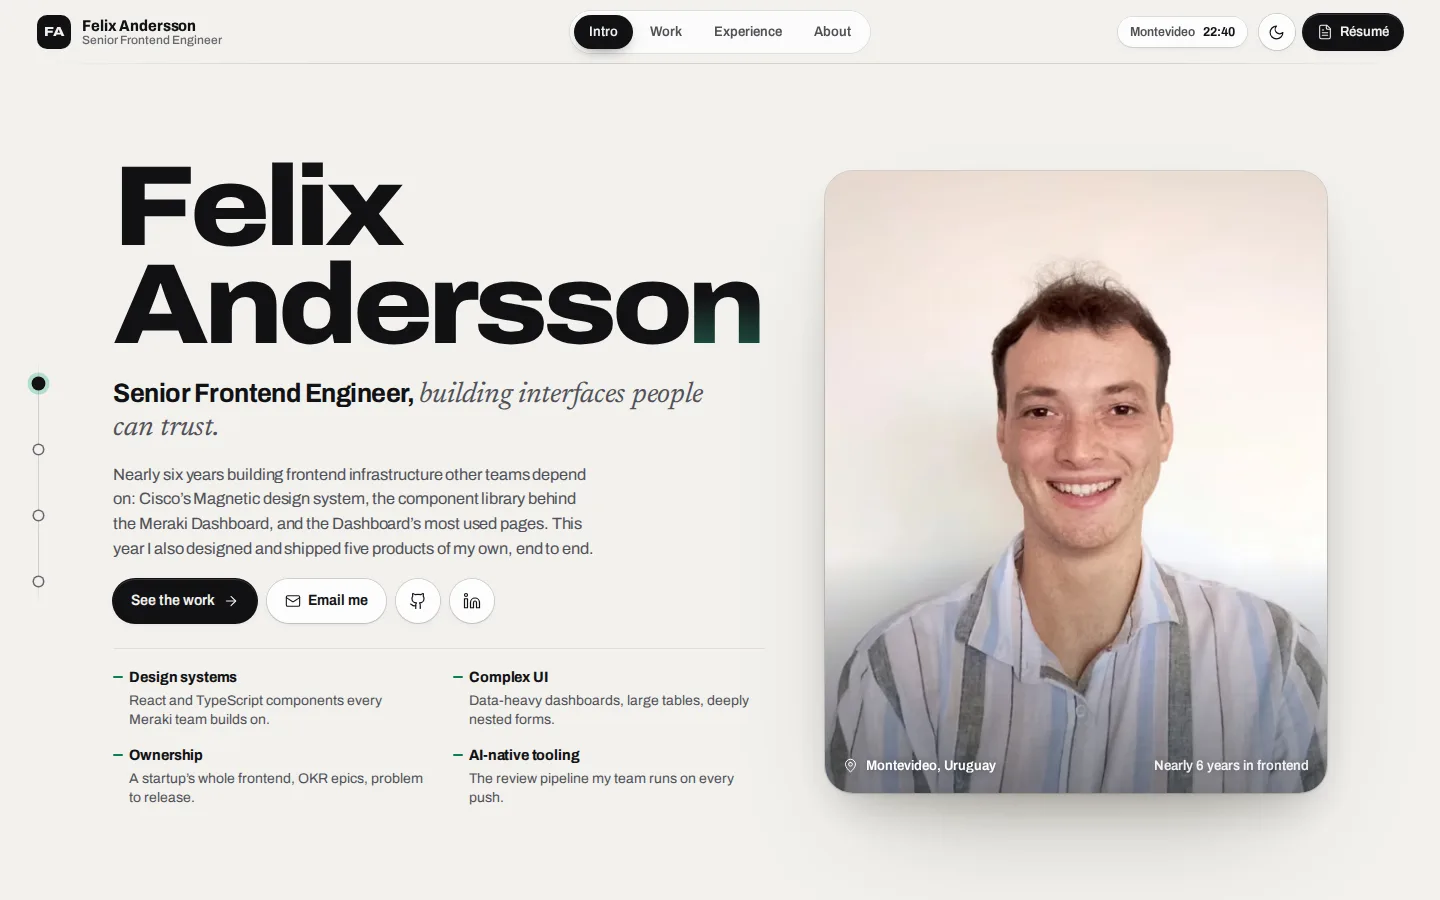
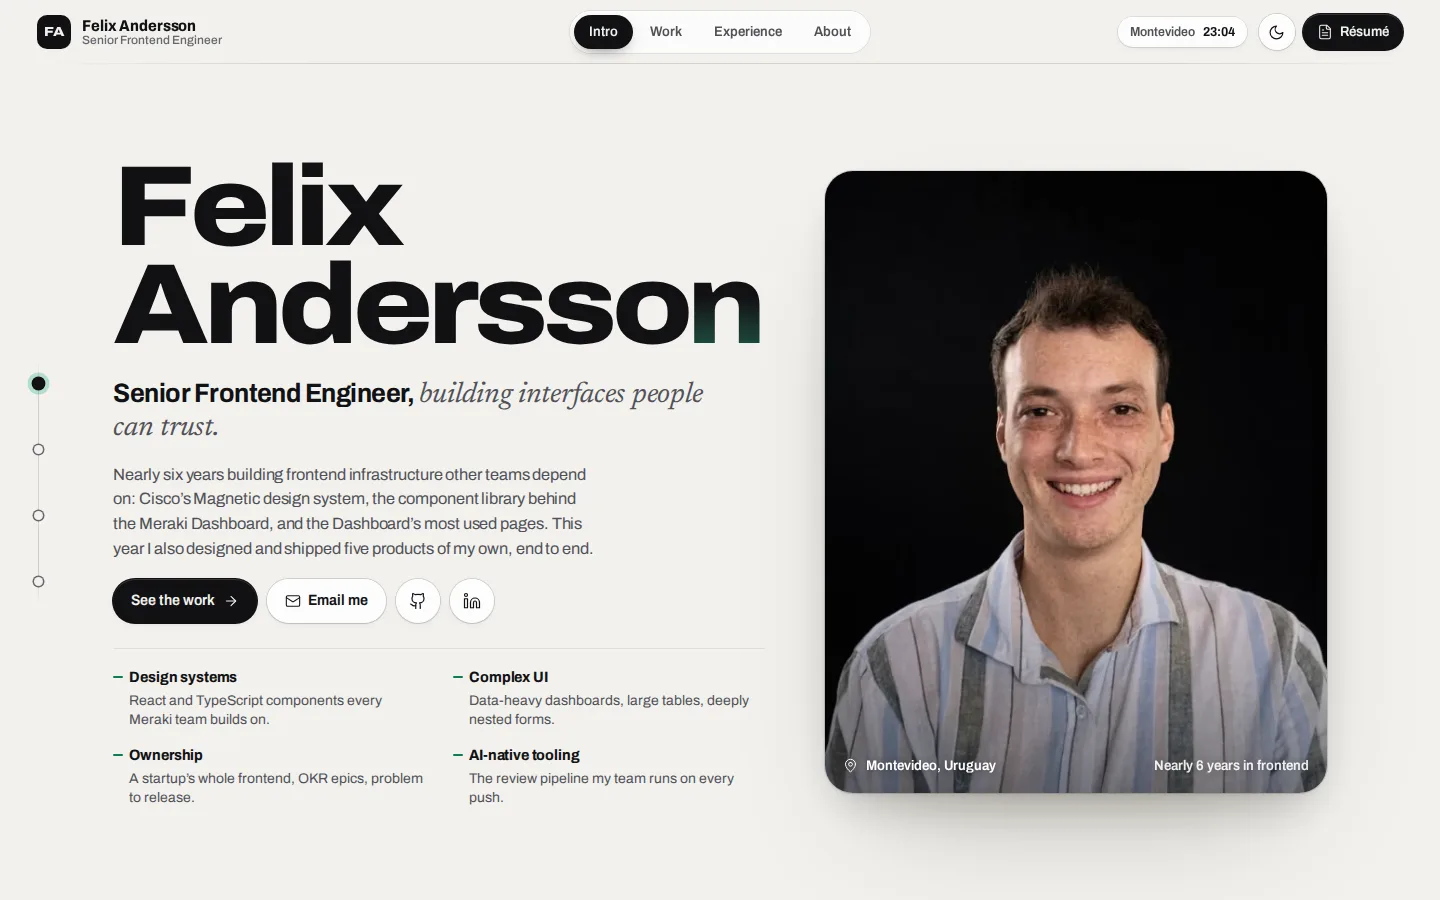
feat: ship the portrait in two editions for light and dark themes

Changed region(s): [[0.5625, 0.1867, 0.9375, 0.9022], [0.9062, 0.84, 0.9375, 0.8711]]

diff --git a/DESIGN.md b/DESIGN.md
@@ -128,7 +128,7 @@ One `go()` in `src/scripts/deck.ts` drives everything:
 
 - **Bar**: an FA mark and name, a segmented tab strip with a sliding pill, the Montevideo clock, the theme toggle, the résumé.
 - **Section rail** (`Dock.astro`): a vertical line with one dot per section down the left edge; the current dot is filled, labels appear on hover and focus. On phones: the tab bar.
-- **Intro**: the variable name, role with the serif aside, lede, actions, four strengths (design systems, complex UI, ownership, AI-native tooling); the portrait, cropped close, tilts toward the pointer with a sheen; its caption gives the location and time in frontend (computed at build, rounded honestly: "Nearly 6 years"). Nothing overlaps the photo.
+- **Intro**: the variable name, role with the serif aside, lede, actions, four strengths (design systems, complex UI, ownership, AI-native tooling); the portrait (a dark studio shot on the light site, a white one on the dark site, only the visible one downloaded) tilts toward the pointer with a sheen; its caption gives the location and time in frontend (computed at build, rounded honestly: "Nearly 6 years"). Nothing overlaps the photo.
 - **Showcase** (signature): a rail of five products and a stage. The active product's recording plays once, holds on its final frame (which matches the still), then the next product slides in. The active rail item fills from left to right with a wash of the product accent as its turn runs. Reading the product copy or focusing inside pauses the countdown; the button turns auto-advance off; reduced motion starts with it off. Automatic turns are not announced; turns the visitor drives are.
 - **Timeline**: a Gantt of roles from 2020 to now in one continuous lane (each bar runs until the next role starts), a "now" marker, bars that pick the role shown below. The current role adds a card of examples in prose (the AI engineering stack, responsive tables on large datasets, what the team lead said). No diagrams: no single example should read as the whole job.
 - **Case study**: Overview (name, tagline, facts, actions, lead plate with pins and its recording), Story (the story beside the annotated screenshot and its legend), Engineering (three numbered cards and the stack), Screens (desktop captures on a grid, the phone as a full-height column), Specs (build sheet and the next case study).

diff --git a/PRODUCT.md b/PRODUCT.md
@@ -53,7 +53,7 @@ Visitors come with a job description in mind and compare several candidates in t
   - KatArch (`katarch`) https://katarch.vercel.app, github.com/Felichz/katarch
   - LifeUI (`life-ui`) https://life-ui-one.vercel.app, github.com/Felichz/life-ui
   - PlaySync (`rave2`) https://syncplay-avtu.onrender.com, github.com/Felichz/PlaySync
-- Portrait photo supplied by the author (2026-09-29), cropped, in `src/assets/portrait/`: used once, in the intro. No avatars or small crops (author's choice).
+- Portrait photos supplied by the author (2026-09-30), a dark and a white studio shot, in `src/assets/portrait/`: used once, in the intro, printed in the opposite edition like the product captures. No avatars or small crops (author's choice).
 - Career narratives in the author's own words (story-arsenal.md): proactive maintainer of the component library, OKR epics, AI engineering stack, Device Magic ownership and the XML adapter. The 100k-row filtering is one example among many; do not lead with it (author's choice).
 - Device Magic is shown as Dec 2020 to Jul 2021 so the timeline has no gap before Cisco (author's instruction; the résumé PDF says 05/2021).
 - Early history (old portfolio `portfolio-old/`): Scratch from age 8 or 9, a flash-games site with 300k+ page views from other kids, top ten twice in Uruguay's national ANIMATE animation contest.

diff --git a/README.md b/README.md
@@ -93,7 +93,7 @@ npm run preview  # serve dist/
 | `src/scripts/fx.ts` | Pointer spotlight and tilt. |
 | `src/components/Plate.astro` | Theme-aware screenshot in a browser window, with the recording player. |
 | `src/styles/global.css` | Tokens for both editions, ambient layers, shell, surfaces, buttons, plates, pins. |
-| `src/assets/portrait/` | The portrait. |
+| `src/assets/portrait/` | The portrait, a dark and a white studio shot (the site shows the opposite one). |
 | `src/assets/shots/` | Product screenshots (WebP, 2x), as `name-light` / `name-dark`. |
 | `src/assets/motion/` | Screen recordings (H.264 MP4, 1920 wide), as `name-light` / `name-dark`. |
 | `docs/screenshots/` | The images in this README. |
